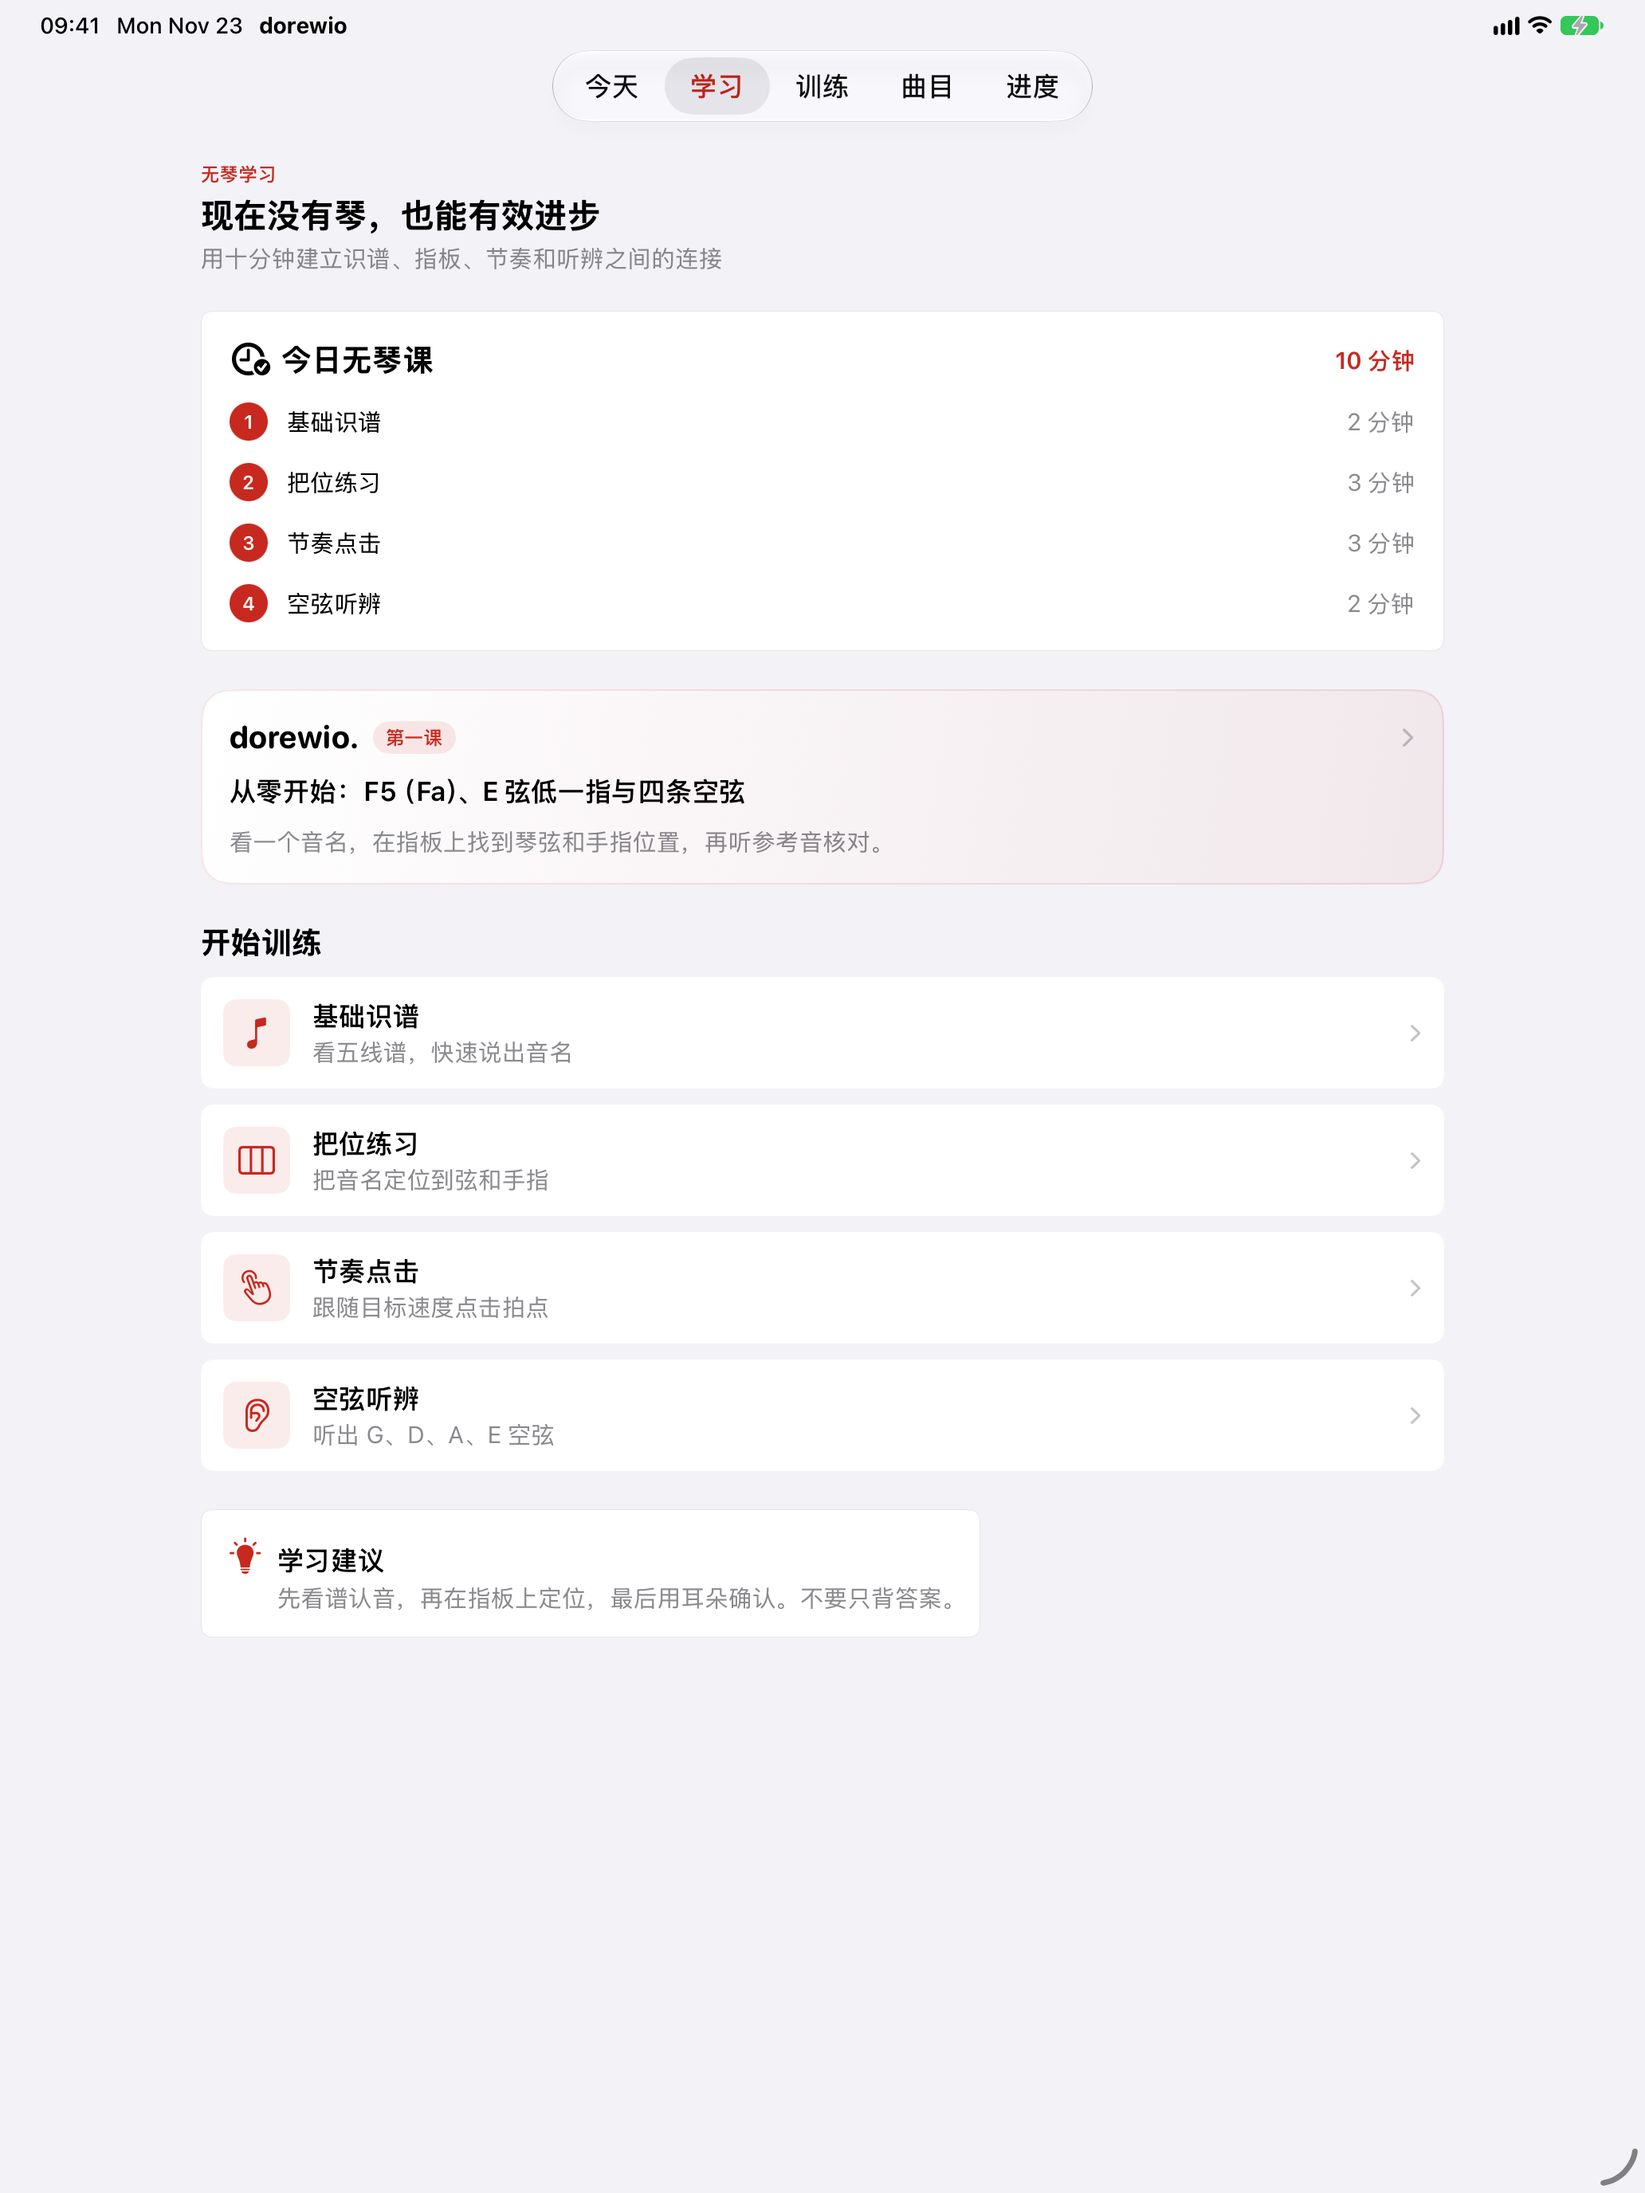
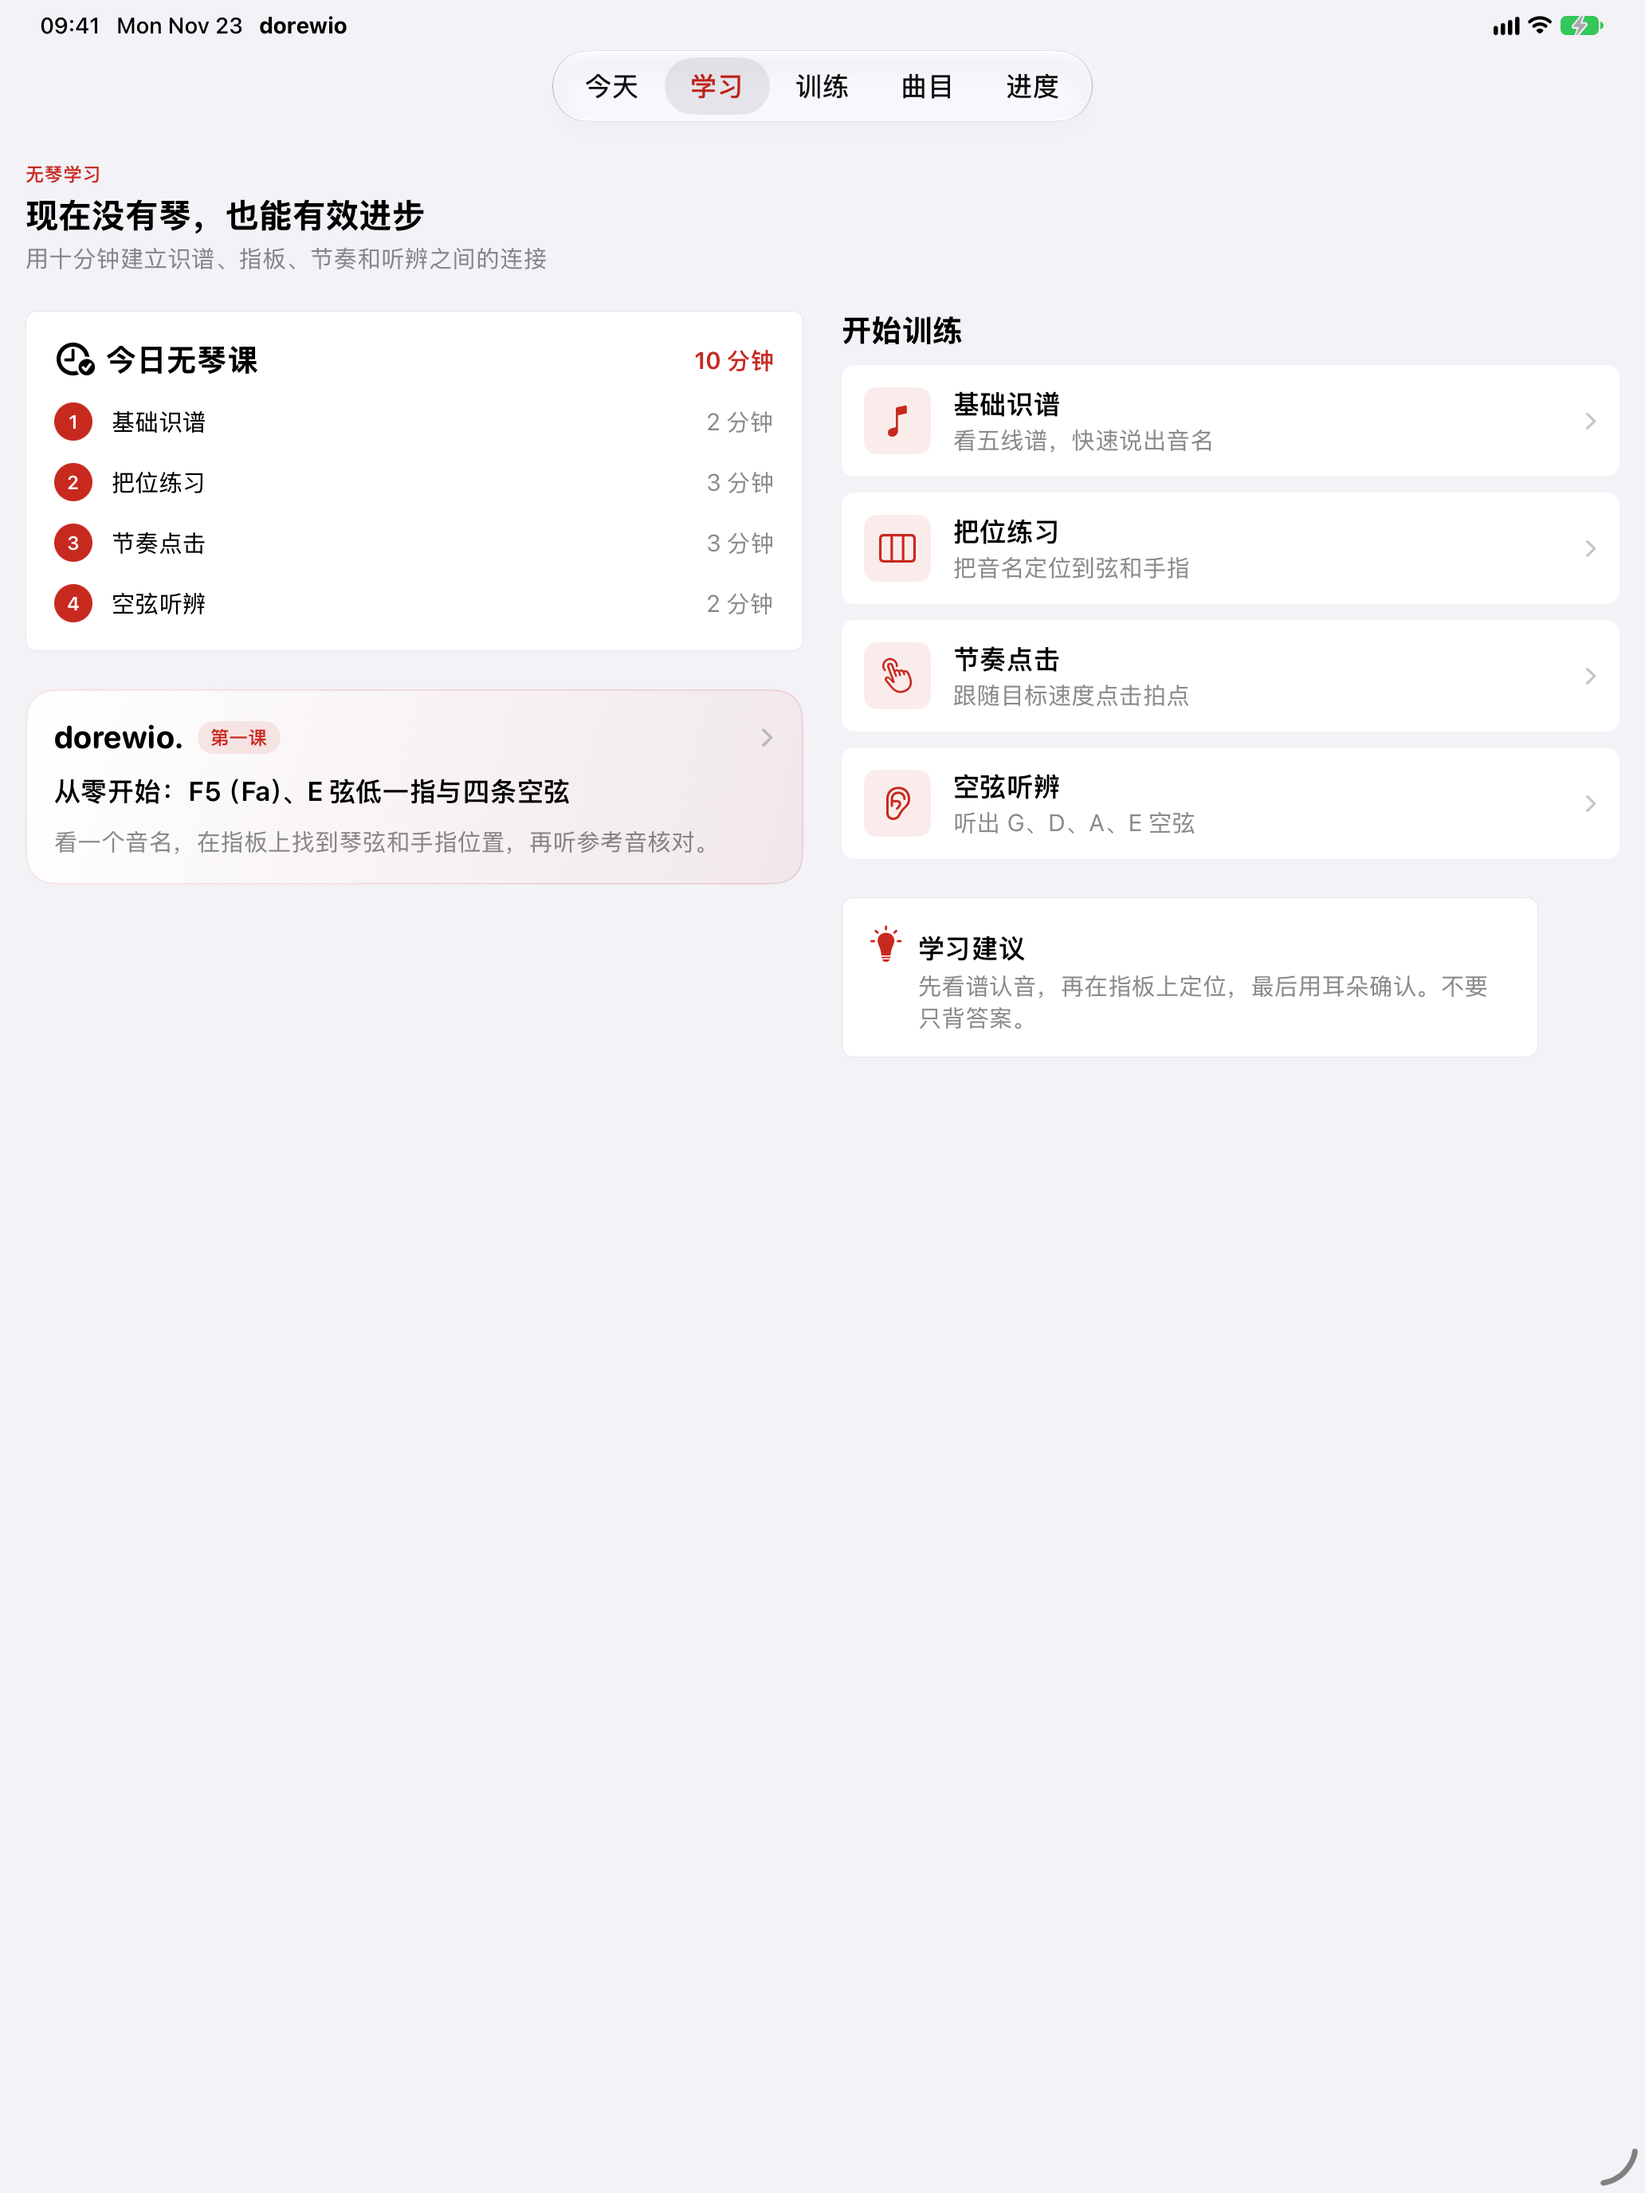
feat: two-column iPad layout for Learning and Training
- PracticeTwoColumn uses ViewThatFits: side-by-side at >=460pt per column,
  stacked fallback on iPhone.
- Learning and Training widen to 1100pt on iPad and show two columns.
- Refresh iPad screenshot drafts.

diff --git a/dorewio/PracticeLibraryView.swift b/dorewio/PracticeLibraryView.swift
@@ -39,25 +39,28 @@ struct PracticeLibraryView: View {
                         title: "今天练什么",
                         detail: "从调音热身开始，再进入运弓、揉弦或节奏训练"
                     )
-                    PracticeGroup(
-                        title: "开始练琴",
-                        items: [
-                            (.tuner, "调音", "先让四根空弦回到中心", "tuningfork"),
-                            (.metronome, "节拍器", "稳定拍点、重音与速度", "metronome"),
-                            (.rhythm, "节奏", "建立稳定的内部拍点", "metronome")
-                        ],
-                        proRoutes: []
-                    )
-                    PracticeGroup(
-                        title: ProLaunchMode.gatingEnabled ? "技巧训练（Pro）" : "技巧训练",
-                        items: [
-                            (.bow, "运弓", "弓段、弓速与换弓控制", "arrow.up.and.down"),
-                            (.vibrato, "揉弦", "速度、幅度与音高中心", "waveform.path")
-                        ],
-                        proRoutes: ProLaunchMode.gatingEnabled ? [.bow, .vibrato] : []
-                    )
+                    PracticeTwoColumn {
+                        PracticeGroup(
+                            title: "开始练琴",
+                            items: [
+                                (.tuner, "调音", "先让四根空弦回到中心", "tuningfork"),
+                                (.metronome, "节拍器", "稳定拍点、重音与速度", "metronome"),
+                                (.rhythm, "节奏", "建立稳定的内部拍点", "metronome")
+                            ],
+                            proRoutes: []
+                        )
+                    } secondary: {
+                        PracticeGroup(
+                            title: ProLaunchMode.gatingEnabled ? "技巧训练（Pro）" : "技巧训练",
+                            items: [
+                                (.bow, "运弓", "弓段、弓速与换弓控制", "arrow.up.and.down"),
+                                (.vibrato, "揉弦", "速度、幅度与音高中心", "waveform.path")
+                            ],
+                            proRoutes: ProLaunchMode.gatingEnabled ? [.bow, .vibrato] : []
+                        )
+                    }
                 }
-                .practiceReadableWidth()
+                .practiceReadableWidth(1100)
                 .padding()
             }
             .background(PracticePalette.canvas)

diff --git a/dorewio/PracticeDesign.swift b/dorewio/PracticeDesign.swift
@@ -20,6 +20,38 @@ enum PracticePalette {
     static let hairline = Color.primary.opacity(0.10)
 }
 
+/// iPad/宽屏两栏：空间够时左右并排，窄屏（iPhone）自动回退成上下堆叠。
+struct PracticeTwoColumn<Primary: View, Secondary: View>: View {
+    private let minColumnWidth: CGFloat
+    private let primary: Primary
+    private let secondary: Secondary
+
+    init(
+        minColumnWidth: CGFloat = 460,
+        @ViewBuilder primary: () -> Primary,
+        @ViewBuilder secondary: () -> Secondary
+    ) {
+        self.minColumnWidth = minColumnWidth
+        self.primary = primary()
+        self.secondary = secondary()
+    }
+
+    var body: some View {
+        ViewThatFits(in: .horizontal) {
+            HStack(alignment: .top, spacing: 24) {
+                primary
+                    .frame(minWidth: minColumnWidth, maxWidth: .infinity, alignment: .topLeading)
+                secondary
+                    .frame(minWidth: minColumnWidth, maxWidth: .infinity, alignment: .topLeading)
+            }
+            VStack(alignment: .leading, spacing: 24) {
+                primary
+                secondary
+            }
+        }
+    }
+}
+
 struct PracticeSectionHeader: View {
     let eyebrow: String
     let title: String

diff --git a/dorewio/LearningLibraryView.swift b/dorewio/LearningLibraryView.swift
@@ -10,12 +10,19 @@ struct LearningLibraryView: View {
                         title: "现在没有琴，也能有效进步",
                         detail: "用十分钟建立识谱、指板、节奏和听辨之间的连接"
                     )
-                    DailyCourseCard()
-                    DorewioLessonEntry()
-                    LearningModuleGroup()
-                    LearningTipCard()
+                    PracticeTwoColumn {
+                        VStack(alignment: .leading, spacing: 24) {
+                            DailyCourseCard()
+                            DorewioLessonEntry()
+                        }
+                    } secondary: {
+                        VStack(alignment: .leading, spacing: 24) {
+                            LearningModuleGroup()
+                            LearningTipCard()
+                        }
+                    }
                 }
-                .practiceReadableWidth()
+                .practiceReadableWidth(1100)
                 .padding()
             }
             .background(PracticePalette.canvas)

diff --git a/docs/RELEASE_STATE.md b/docs/RELEASE_STATE.md
@@ -7,7 +7,7 @@ App Store Connect record: **小提琴自学** · Apple ID `6827607435` · bundle
 - Branch `release/1.1`; version **1.1**, next build **19** (1.0 shipped build 17; build 18 stayed TestFlight-only).
 - New in 1.1: **PDF 谱架** in 曲目 — import PDFs from Files, copy them into the app sandbox, and read them offline in a PDFKit continuous-scroll viewer with pinch zoom, live page count, page navigation and delete. No upload, no account.
 - Included in 1.1: build 18 light/dark contrast fixes (already on `main`, never shipped in 1.0).
-- **iPad support:** the target is now universal (`TARGETED_DEVICE_FAMILY = "1,2"`) with all iPad orientations; tab and practice content is capped at 780–820 pt and centred, and the lesson/fingerboard are scaled for a 13-inch canvas. Verified on an iPad Pro 13-inch (M5) simulator.
+- **iPad support:** the target is now universal (`TARGETED_DEVICE_FAMILY = "1,2"`) with all iPad orientations; tab and practice content is capped at 780–1100 pt and centred; Learning and Training switch to a two-column layout when space allows, and the lesson/fingerboard are scaled for a 13-inch canvas. Verified on an iPad Pro 13-inch (M5) simulator.
 - Code verified: SwiftPM `72/72` tests pass; simulator build succeeds; draft screenshots in `docs/screenshots/app-1.1/`.
 - Draft 1.1 screenshots and What's New: `docs/APP_STORE_1.1.md` (needs a reshoot with a real score PDF before upload).
 - Still external: Pro paywall flip (`ProLaunchMode.gatingEnabled`) waits for the Paid Apps Agreement; mainland China waits for the ICP case `30000016363562`; final store screenshots and What's New are not uploaded yet.

diff --git a/docs/APP_STORE_1.1.md b/docs/APP_STORE_1.1.md
@@ -30,8 +30,8 @@ Draft date: 2026-11-23 · build **1.1 (19)** · branch `release/1.1` · **not up
 | # | 文件 | 画面 |
 |---|---|---|
 | 1 | `docs/screenshots/app-1.1/ipad/01_today.png` | 今天 |
-| 2 | `docs/screenshots/app-1.1/ipad/02_learn.png` | 学习（10 分钟无琴课） |
-| 3 | `docs/screenshots/app-1.1/ipad/03_train.png` | 训练 |
+| 2 | `docs/screenshots/app-1.1/ipad/02_learn.png` | 学习（两栏：课程 + 训练） |
+| 3 | `docs/screenshots/app-1.1/ipad/03_train.png` | 训练（两栏：基础 + 技巧） |
 | 4 | `docs/screenshots/app-1.1/ipad/04_pdf_shelf.png` | 曲目 · PDF 谱架 |
 | 5 | `docs/screenshots/app-1.1/ipad/05_pdf_reader.png` | PDF 阅读器 |
 
